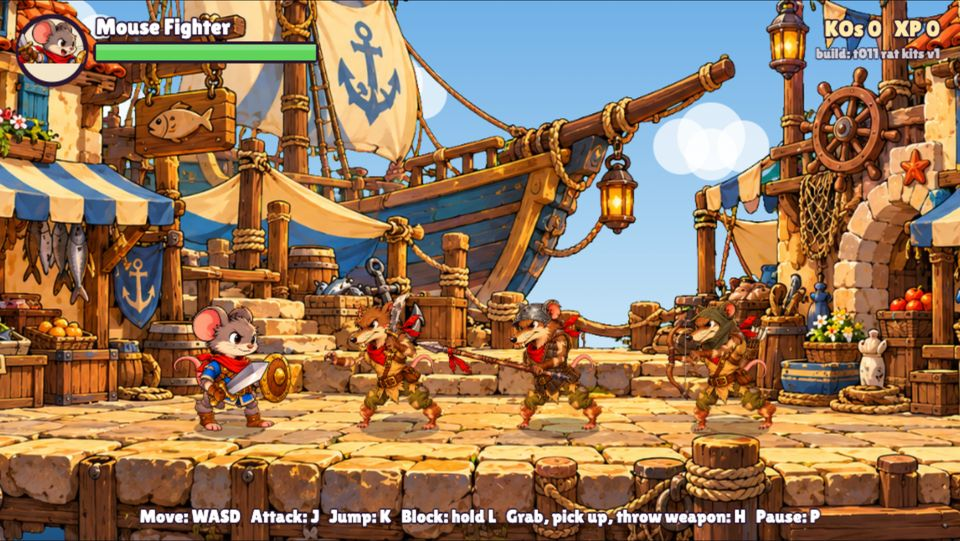
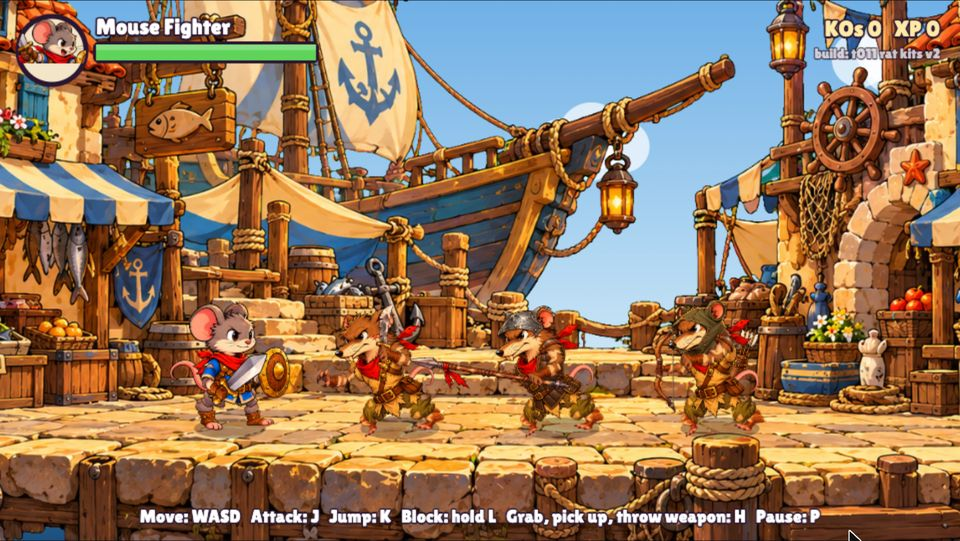
T011 round 2: chunkier rat (variant C: thicker shorter limbs, bigger head, deeper crouch), legs re-solved, walk retuned, screens

diff --git a/src/data/rigs/rat-raider.js b/src/data/rigs/rat-raider.js
@@ -4,7 +4,9 @@
 // the forearm is pulled up onto the end of the upper arm (A004's gap). rest = minus the bone's angle in the reference,
 // so all-zero joints redraw the A005 reference; poses (rat-raider-poses.js) bend him into his fighting crouch.
 // Same field meanings as rigs/mouse-fighter.js. "front" = the near limb (behind his body as he faces right), "back" = far.
-// Legs are drawn 1.2-1.25x thicker and ~0.85x shorter than A005's (user: "weirdly muscly but still thin"): stockier, lower hips.
+// T011 round 2 (user: "not crouching", "arms and legs are skinny"; variant C): legs drawn ~1.5x thicker and 0.75x shorter, arms
+// ~1.4x thicker, head 1.15x, torso 1.1x, closer to the art bible's chunky proportions. A stopgap: matching the standee needs parts
+// drawn to its proportions (lead's call).
 // slots: grip type -> where a held weapon goes. A string replaces that part's drawing (the cutlass); an object adds the
 //   weapon as a new part on `parent` at `attach` (the far fist, for the bow).
 // grips: per grip type, the far forearm swaps to a closed fist and a second hand is placed by IK (render/rig-grip.js):
@@ -16,7 +18,7 @@ const P = 'assets/art/enemies/rat-raider/rig/';
 export default {
   id: 'rat-raider',
   scale: 0.3,       // part px -> screen px
-  rootY: 38.5,        // hip height above the feet in the crouch stance (screen px)
+  rootY: 26,        // hip height above the feet in the crouch stance (screen px)
   slots: {
     'one-hand': 'sword',
     'two-hand': 'sword',
@@ -27,35 +29,36 @@ export default {
     bow: { swap: { 'arm-back-lower': 'arm-back-lower-grip' }, hide: ['sword'], ik: { arm: ['arm-front-upper', 'arm-front-lower'], hand: [55, 88], to: 'nock' } },
   },
   parts: {
-    torso: { img: P + 'torso.png', pivot: [82, 189], order: 9, swaps: { 'torso-back': { img: P + 'torso-back.png', offset: [10.4, 0] } } },
-    head: { img: P + 'head-neutral.png', parent: 'torso', attach: [92, 35], pivot: [78, 146], order: 10,
+    torso: { img: P + 'torso.png', pivot: [82, 189], scale: 1.1, order: 9, swaps: { 'torso-back': { img: P + 'torso-back.png', offset: [10.4, 0] } } },
+    head: { img: P + 'head-neutral.png', parent: 'torso', attach: [92, 35], pivot: [78, 146], scale: 1.15, order: 10,
       swaps: {
         'head-snarl': { img: P + 'head-snarl.png', offset: [0.8, -3.2] },
         'head-hurt': { img: P + 'head-hurt.png', offset: [0, 0] },
       } },
-    'scarf-tail': { img: P + 'scarf-tail.png', parent: 'head', attach: [30, 96], pivot: [94, 39], order: 8 },
-    tail: { img: P + 'tail.png', parent: 'torso', attach: [36, 119], pivot: [88, 16], order: 3 },
+    'scarf-tail': { img: P + 'scarf-tail.png', parent: 'head', attach: [30, 96], pivot: [94, 39], scale: 1.15, order: 8 },
+    tail: { img: P + 'tail.png', parent: 'torso', attach: [36, 119], pivot: [88, 16], scale: 1.1, order: 3 },
 
-    'arm-front-upper': { img: P + 'arm-front-upper.png', parent: 'torso', attach: [28, 27], pivot: [45, 25], rest: -27, order: 12 },
-    'arm-front-lower': { img: P + 'arm-front-lower.png', parent: 'arm-front-upper', attach: [13, 89], pivot: [14, 11], rest: 25, order: 14 },
+    'arm-front-upper': { img: P + 'arm-front-upper.png', parent: 'torso', attach: [28, 27], pivot: [45, 25], rest: -27, scale: [1.45, 0.95], order: 12 },
+    'arm-front-lower': { img: P + 'arm-front-lower.png', parent: 'arm-front-upper', attach: [13, 89], pivot: [14, 11], rest: 25, scale: [1.4, 0.95], order: 14 },
     sword: { img: P + 'sword.png', parent: 'arm-front-lower', attach: [51, 90], pivot: [32, 36], rest: -47, order: 13 },
 
-    'arm-back-upper': { img: P + 'arm-back-upper.png', parent: 'torso', attach: [148, 47], pivot: [7, 6], rest: 33, order: 1 },
-    'arm-back-lower': { img: P + 'arm-back-lower.png', parent: 'arm-back-upper', attach: [38, 54], pivot: [7, 9], rest: 55, order: 2,
+    'arm-back-upper': { img: P + 'arm-back-upper.png', parent: 'torso', attach: [148, 47], pivot: [7, 6], rest: 33, scale: [1.45, 0.95], order: 1 },
+    'arm-back-lower': { img: P + 'arm-back-lower.png', parent: 'arm-back-upper', attach: [38, 54], pivot: [7, 9], rest: 55, scale: [1.4, 0.95], order: 2,
       swaps: {
         'arm-back-lower-grip': { img: P + 'arm-back-lower-grip.png', offset: [14.4, 0] },     // closed fist (spear shaft, bow grip)
         'arm-back-lower-pinch': { img: P + 'arm-back-lower-pinch.png', offset: [2.4, 0] },   // string pinch (unused yet)
       } },
 
-    'leg-back-upper': { img: P + 'leg-back-upper.png', parent: 'torso', attach: [132, 185], pivot: [14, 12], rest: 36, scale: [1.25, 0.84], order: 5 },
-    'leg-back-lower': { img: P + 'leg-back-lower.png', parent: 'leg-back-upper', attach: [66, 84], pivot: [21, 6], rest: 6, scale: [1.2, 0.86], order: 4 },
-    'leg-front-upper': { img: P + 'leg-front-upper.png', parent: 'torso', attach: [35, 193], pivot: [73, 7], rest: -43, scale: [1.25, 0.84], order: 7 },
-    'leg-front-lower': { img: P + 'leg-front-lower.png', parent: 'leg-front-upper', attach: [8, 75], pivot: [38, 7], rest: -11, scale: [1.2, 0.86], order: 6 },
+    'leg-back-upper': { img: P + 'leg-back-upper.png', parent: 'torso', attach: [132, 185], pivot: [14, 12], rest: 36, scale: [1.55, 0.74], order: 5 },
+    'leg-back-lower': { img: P + 'leg-back-lower.png', parent: 'leg-back-upper', attach: [66, 84], pivot: [21, 6], rest: 6, scale: [1.45, 0.76], order: 4 },
+    'leg-front-upper': { img: P + 'leg-front-upper.png', parent: 'torso', attach: [35, 193], pivot: [73, 7], rest: -43, scale: [1.55, 0.74], order: 7 },
+    'leg-front-lower': { img: P + 'leg-front-lower.png', parent: 'leg-front-upper', attach: [8, 75], pivot: [38, 7], rest: -11, scale: [1.45, 0.76], order: 6 },
   },
 };
 
 // A008 gear overlays (same canvas): pinned to the head or torso at their crop corner, no joint of their own.
-const pin = (img, parent, attach, order) => ({ img: P + img, parent, attach, pivot: [0, 0], order });
+const SC = { head: 1.15, torso: 1.1 };   // drawn at their parent's scale
+const pin = (img, parent, attach, order) => ({ img: P + img, parent, attach, pivot: [0, 0], scale: SC[parent], order });
 export const GEAR = {
   hood: pin('gear-hood.png', 'head', [-1.6, -2], 10.5),
   helmet: pin('gear-helmet.png', 'head', [19.2, -3.6], 10.5),

diff --git a/src/data/rigs/rat-raider-poses.js b/src/data/rigs/rat-raider-poses.js
@@ -6,23 +6,23 @@
 export default {
   timing: { blend: 0.09, strikeIn: 0.55, overshoot: 1.4, bodyLean: 0.3, swapBack: 0.5, throughSwap: [0, 0.75] },
   stance: {
-    torso: 20, head: -14, tail: 0, 'scarf-tail': 0,
+    torso: 26, head: -20, tail: 0, 'scarf-tail': 0,
     'arm-front-upper': 25, 'arm-front-lower': -150, sword: 0,
     'arm-back-upper': -75, 'arm-back-lower': -40,
-    'leg-back-upper': -78, 'leg-back-lower': 62, 'leg-front-upper': 26, 'leg-front-lower': -40,   // both soles on the floor (rig test)
+    'leg-back-upper': -99, 'leg-back-lower': 107, 'leg-front-upper': 29, 'leg-front-lower': -69,   // both soles on the floor (rig test)
   },
   idle: {   // coiled: a slow breathing bob with the tail swishing
     speed: 0.6,
-    torso: [20, 2, 0], head: [-14, 3, 0.15], dy: [0, 1, 0.25],
+    torso: [26, 2, 0], head: [-20, 3, 0.15], dy: [0, 1, 0.25],
     'arm-front-upper': [25, 4, 0.1], 'arm-back-upper': [-75, 5, 0.1], 'arm-back-lower': [-40, 6, 0.3],
     tail: [0, 12, 0.3], 'scarf-tail': [0, 8, 0.55],
   },
   // Scuttle: short quick steps in the crouch (walk 2.0 px/frame; tests/rig.test.mjs checks the feet don't skate).
   walk: {
     speed: 1.9,
-    torso: [24, 2, 0, 2], head: [-16, 2, 0.1, 2], dy: [-4.5, 2, 0.75, 2],
-    'leg-back-upper': [-64, 17, 0], 'leg-back-lower': [52, 12, 0.8],
-    'leg-front-upper': [4, 19, 0.5], 'leg-front-lower': [-14, 12, 0.3],
+    torso: [26, 2, 0, 2], head: [-20, 2, 0.1, 2], dy: [-4, 2, 0.75, 2],
+    'leg-back-upper': [-99, 33, 0], 'leg-back-lower': [107, 23.5, 0.8],
+    'leg-front-upper': [29, 26.5, 0.5], 'leg-front-lower': [-69, 17, 0.3],
     'arm-front-upper': [25, 10, 0.5], 'arm-back-upper': [-75, 12, 0],
     tail: [5, 14, 0.25], 'scarf-tail': [10, 8, 0.4, 2],
   },
@@ -34,7 +34,7 @@ export default {
     swap: { head: 'head-hurt' },
     torso: -6, head: -16, dx: -3,
     'arm-front-upper': 60, 'arm-front-lower': -90, sword: 30, 'arm-back-upper': 10, 'arm-back-lower': -30,
-    'leg-back-upper': -26, 'leg-back-lower': 34, 'leg-front-upper': 39, 'leg-front-lower': -71,
+    'leg-back-upper': -43, 'leg-back-lower': 74, 'leg-front-upper': 60, 'leg-front-lower': -96,
     tail: -25, 'scarf-tail': -30,
   },
   held: {   // grabbed by the collar / flying when thrown (T011): hurt face, legs kicking off the ground, arms flailing
@@ -61,14 +61,14 @@ export default {
   getup: {
     torso: 30, head: -10,
     'arm-front-upper': 10, 'arm-front-lower': -60, 'arm-back-upper': -50,
-    'leg-back-upper': -100, 'leg-back-lower': 92, 'leg-front-upper': 16, 'leg-front-lower': -36,
+    'leg-back-upper': -107, 'leg-back-lower': 110, 'leg-front-upper': 24, 'leg-front-lower': -66,
   },
   moves: {
     ratSlash: {   // long telegraph: rears up with the cutlass high behind his head, then a lunging chop down in front
       windup: { torso: -6, head: -6, 'arm-front-upper': 150, 'arm-front-lower': -40, sword: -214, 'arm-back-upper': -100, 'arm-back-lower': -20,
-        'leg-back-upper': -32, 'leg-back-lower': 34, 'leg-front-upper': 39, 'leg-front-lower': -71, tail: 20, 'scarf-tail': 15 },
+        'leg-back-upper': -41, 'leg-back-lower': 75, 'leg-front-upper': 74, 'leg-front-lower': -98, tail: 20, 'scarf-tail': 15 },
       strike: { swap: { head: 'head-snarl' }, torso: 30, head: -14, dx: 4, 'arm-front-upper': -70, 'arm-front-lower': -10, sword: 60, 'arm-back-upper': 20, 'arm-back-lower': -40,
-        'leg-back-upper': -96, 'leg-back-lower': 74, 'leg-front-upper': 14, 'leg-front-lower': -36, tail: -25, 'scarf-tail': -25 },
+        'leg-back-upper': -107, 'leg-back-lower': 110, 'leg-front-upper': 31, 'leg-front-lower': -61, tail: -25, 'scarf-tail': -25 },
     },
   },
 };

diff --git a/src/data/rigs/rat-spearman.js b/src/data/rigs/rat-spearman.js
@@ -11,7 +11,7 @@ export default {
   parts: { ...rat.parts, helmet: GEAR.helmet, jerkin: GEAR.jerkin },
   poses: {
     ...base,
-    stance: { ...base.stance, ...arms(-12, -66, -60, -60, 50) },   // spear -8 (point slightly up), near fist at the hip
+    stance: { ...base.stance, ...arms(-12, -66, -60, -60, 44) },   // spear -8 (point slightly up), near fist at the hip
     idle: { ...base.idle, 'arm-front-upper': [-12, 3, 0.1], 'arm-back-upper': [-60, 3, 0.1], 'arm-back-lower': -60 },
     walk: { ...base.walk, speed: 1.7, 'arm-front-upper': [-12, 4, 0.5], 'arm-back-upper': [-60, 4, 0] },
     hurt: { ...base.hurt, ...arms(30, -100, -40, -60, 60) },
@@ -19,7 +19,7 @@ export default {
     moves: {
       spearThrust: {   // draws the spear back along his side (long telegraph), then drives it straight out at the enemy
         windup: { swap: { head: 'head-snarl' }, torso: 6, head: -6, dx: -4, ...arms(10, -70, -30, -60, 55),
-          'leg-back-upper': -32, 'leg-back-lower': 34, 'leg-front-upper': 39, 'leg-front-lower': -71, tail: 20 },
+          'leg-back-upper': -68, 'leg-back-lower': 86, 'leg-front-upper': 46, 'leg-front-lower': -87, tail: 20 },
         strike: { swap: { head: 'head-snarl' }, torso: 22, head: -14, ...arms(-45, -55, -70, -40, 73), tail: -25 },   // arms drive, body stays back
       },
     },

diff --git a/src/data/rigs/rat-archer.js b/src/data/rigs/rat-archer.js
@@ -10,9 +10,10 @@ export default {
   parts: { ...rat.parts, hood: GEAR.hood, quiver: GEAR.quiver },
   poses: {
     ...base,
-    stance: { ...base.stance, torso: 12, head: -8, 'leg-back-upper': -56, 'leg-back-lower': 61, 'leg-front-upper': 43, 'leg-front-lower': -40, ...arms(-60, -30, -45, -80) },
+    stance: { ...base.stance, torso: 12, head: -8, 'leg-back-upper': -74, 'leg-back-lower': 94, 'leg-front-upper': 50, 'leg-front-lower': -82, ...arms(-60, -30, -45, -80) },
     idle: { ...base.idle, torso: [12, 2, 0], head: [-8, 3, 0.15], 'arm-front-upper': -60, 'arm-back-upper': [-45, 3, 0.1], 'arm-back-lower': -80 },
-    walk: { ...base.walk, dy: [-5.5, 2, 0.75, 2], torso: [16, 2, 0, 2], head: [-10, 2, 0.1, 2], 'arm-front-upper': -60, 'arm-back-upper': [-45, 6, 0] },
+    walk: { ...base.walk, dy: [-4, 2, 0.75, 2], torso: [16, 2, 0, 2],
+      'leg-back-upper': [-74, 32.5, 0], 'leg-back-lower': [94, 23, 0.8], 'leg-front-upper': [50, 30.5, 0.5], 'leg-front-lower': [-82, 19, 0.3], head: [-10, 2, 0.1, 2], 'arm-front-upper': -60, 'arm-back-upper': [-45, 6, 0] },
     hurt: { ...base.hurt, ...arms(30, -100, -40, -40) },
     moves: {
       bowShot: {   // windup = the draw (string to the cheek), bow arm locked out; strike = the loose, string hand flicks back; legs stay planted

diff --git a/src/config.js b/src/config.js
@@ -3,4 +3,4 @@ export const VIEW = { w: 960, h: 540 };   // internal resolution; CSS scales to 
 export const FPS = 60;                    // sim runs at a fixed 60 steps/sec; all timings are in frames
 export const START_STAGE = 'harbor-market';
 export const START_HERO = 'mouse-fighter';
-export const BUILD = 't011 rat kits v1';   // shown small under the KO counter so testers know which version is running
+export const BUILD = 't011 rat kits v2';   // shown small under the KO counter so testers know which version is running

diff --git a/docs/STATUS.md b/docs/STATUS.md
@@ -47,6 +47,8 @@
 - League of Legends-style hero kits (passive + three cooldown abilities + an ultimate, on top of the basic combo), like Dungeon Fighter Online. User is a big LoL fan. Idea only, for Stage 8 heroes; mind button count.
 
 ## Last session
+2026-10-15 code: T011 round 2: game froze at wave 2 for the user = Chrome kept a stale `fighters/index.js` from the plain `http.server` (not a code bug). Added `tools/Play.command` (double-click; no-cache server on port 8100). User: spear and bow rats "do feel different"; but the rats "don't match the original standee in quality", not crouching, "arms and legs are skinny".
+2026-10-15 code: applied mock-up variant C (docs/screens/T011/5-*.jpg, user agreed) as a stopgap: legs ~1.5x thicker / 0.75x shorter, arms 1.4x, head 1.15x, torso 1.1x, hips lower, feet closer (legs re-solved, walk retuned). Build "t011 rat kits v2". **Lead decision:** matching the standee needs rat parts drawn to its proportions (cut from the standee drawing), or rats as pose-swap standees instead of a rig.
 2026-10-15 code: T011 on branch `t011-rat-rig-weapon-kits`: rat rig from A004 + A005 parts (legs 1.2x thicker, 0.85x shorter) in the art-bible crouch; weapon kits generic (`kit` on a fighter, `rig.grips`: far fist + IK onto the spear shaft / bow string, string + nocked arrow); Rat Spearman (helmet + jerkin, 40f thrust, range 140) and Rat Archer (hood + quiver, 42f draw, arrows `sim/shots.js`, keeps away, one arrow in flight) join waves 2 and 3. Extras: `tools/serve.py` no-cache server, landing squash for jump mode A. Build "t011 rat kits v1".
 2026-10-15 code: 14/14 tests (new rat-kits, rat-rig): thrust + arrow escapable at 15f, shield stops arrows, cutlass-only waves = main's exact bot numbers; with the new waves the bot ends on hp 54/42/26 (main 84/84/76). Screens in docs/screens/T011/. Human check open: do the rats read as rats in a fighting crouch, and do spear and bow rats ask different questions?
 2026-10-15 lead: merged T014 (jump squat A: 4-frame sim crouch; toggle removed). Landing squash for A and a no-cache dev server added to T011 as small extras.
